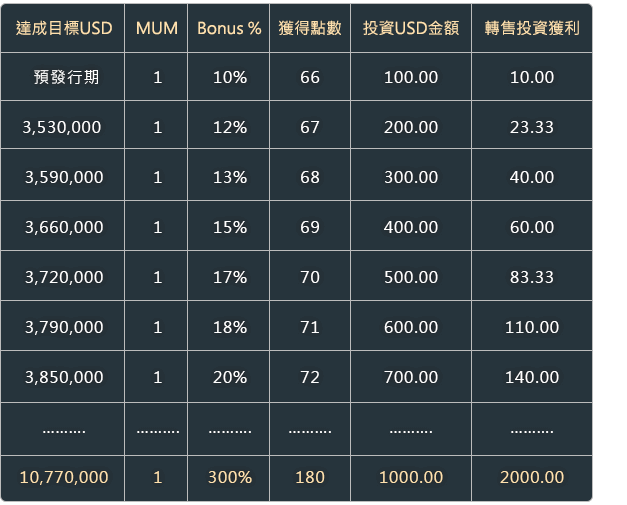
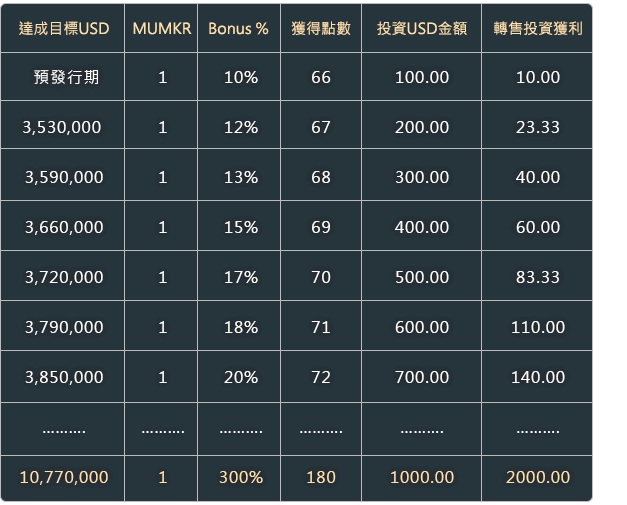
UP

diff --git a/index.html b/index.html
@@ -118,7 +118,7 @@
               <ul class="int_list">
                 <li>2018 GAME.COM 遊戲經濟展望。</li>
                 <li>全球遊戲經濟崛起，面對市場波動，想看見未來，投資眼光更要精準，每個動盪的局勢中，如何發掘創造資產的投資能量。</li>
-                <li>全新型態的募資創投平台GAME.COM，將為群眾募投把關、精準掌握遊戲市場、遊戲經濟格局、未來趨勢，成為全球新興創投產業。</li>
+                <li>全新型態的預發行平台GAME.COM，將為群眾預發行集氣把關、精準掌握遊戲市場、遊戲經濟格局、未來趨勢，成為全球新興創投產業。</li>
               </ul></li>
          </ul></div>
          
@@ -154,7 +154,7 @@
       <ul>
         <li>限量預發行金額USD<span>2,500,000</span></li>
         <li>點數兌換比<span>1 USD = 60 點數</span></li>
-        <li>MUM兌換比<span>60點 = 1MUM</span></li>
+        <li>MUMKR兌換比<span>60點 = 1MUMKR</span></li>
       </ul>
     </div>
     
@@ -180,21 +180,21 @@
         <div class="tp">
           <ul>
             <li class="symbol"><img src="images/symbol_05.png"><h3>募集期</h3></li>
-            <li>1 USD =  60 COINS = MUM01 x 1 +Bouns+10% = 66 COINS</li>
+            <li>1 USD =  60 COINS = MUMKR x 1 +Bouns+10% = 66 COINS</li>
             <li><a href="#">認購網址：www.8888play.com</a></li>
           </ul></div>
         
         <div class="tp">
           <ul>
             <li class="symbol"><img src="images/symbol_06.png"><h3>遊戲上線前交易期</h3></li>
-            <li><a href="#">交易平台：cobinhood.com</a></li>
-            <li>官網隨時公告遊戲上線進度、最新功能，隨著預約登入玩家人數上升，遊戲的期待值在發行地區不斷提升，會有更多玩家因                為期待回饋計劃兌換比提升而購買MUM01幣。</li>
+            <!--<li><a href="#">交易平台：cobinhood.com</a></li>-->
+            <li>官網隨時公告遊戲上線進度、最新功能，隨著預約登入玩家人數上升，遊戲的期待值在發行地區不斷提升，會有更多玩家因                為期待回饋計劃兌換比提升而購買MUMKR幣。</li>
           </ul></div>
         
         <div class="tp">
           <ul>
             <li class="symbol"><img src="images/symbol_07.png"><h3>遊戲上線後交易期</h3></li>
-            <li>遊戲上線後，隨著營收上升，MUM01幣持有者因為預期兌換比提升，此期間的交易價格會高於目前官網公告的兌換比。</li>
+            <li>遊戲上線後，隨著營收上升，MUMKR幣持有者因為預期兌換比提升，此期間的交易價格會高於目前官網公告的兌換比。</li>
           </ul></div>
         
         <div class="tp">
@@ -219,9 +219,9 @@
             <li>
               <ul class="int_list">
                 <li>game.com 全球遊戲幣 / 虛寶集中交換平台 遊戲幣發行。</li>
-                <div class="int_h1">MUM01發行<span>淨營收查核</span></div>
-                <li>淨營收來自於IOS / Google Play / One Store 及MUM01兌換。</li>
-                <li>game.com公證律師將負責查核IOS / Google Play / One Store帳單，並公布MUM01兌換金額。</li>
+                <div class="int_h1">MUMKR發行<span>淨營收查核</span></div>
+                <li>淨營收來自於IOS / Google Play / One Store 及MUMKR兌換。</li>
+                <li>game.com公證律師將負責查核IOS / Google Play / One Store帳單，並公布MUMKR兌換金額。</li>
                
               </ul></li>
          </ul></div>
@@ -234,7 +234,7 @@
               <ul class="int_list">
                 <li>cobinhood.com零手續費加密貨幣交易平台。</li>
                 <li>官方推薦交易平台。</li>
-                <div class="int_h1">MUM01 交易平台<span>可以USD / 比特幣 / 以太幣 兌換</span></div>
+                <div class="int_h1">MUMKR 交易平台<span>可以USD / 比特幣 / 以太幣 兌換</span></div>
               </ul></li>
          </ul></div>
     </div>
@@ -250,8 +250,8 @@
     <a id="p04" target="_self" class="page_link"></a>
       <h2>保證</h2>
         <ul>
-          <li>遊戲保證於2018/2/28前上線，否則認購者可退還MUM01幣</li>
-          <li>遊戲保證至少獲取10萬遊戲會員，否則認購者可退還MUM01幣</li>
+          <li>遊戲保證於2018/2/28前上線，否則認購者可退還MUMKR幣</li>
+          <li>遊戲保證至少獲取10萬遊戲會員，否則認購者可退還MUMKR幣</li>
         </ul>
     </div>
     
